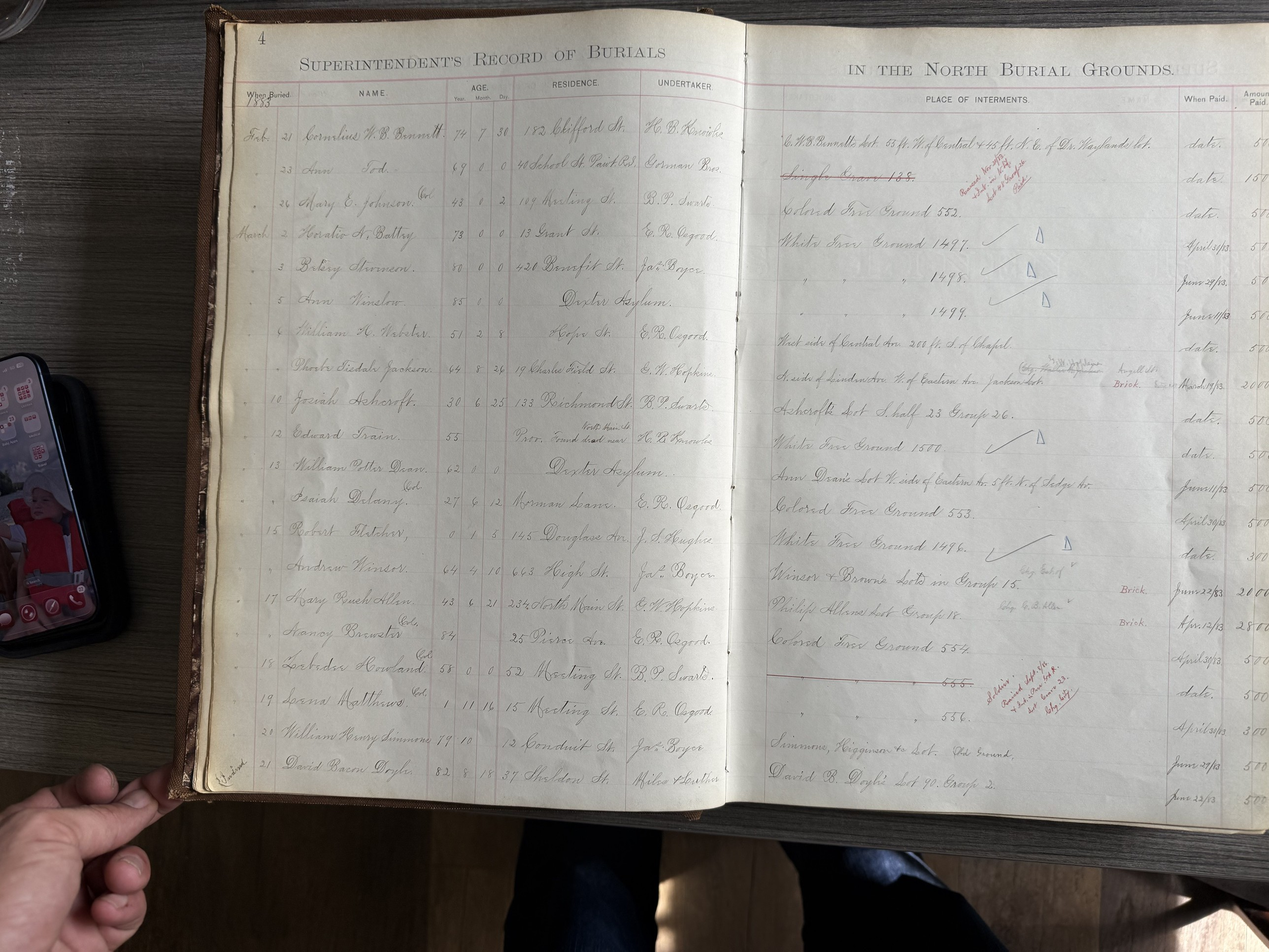
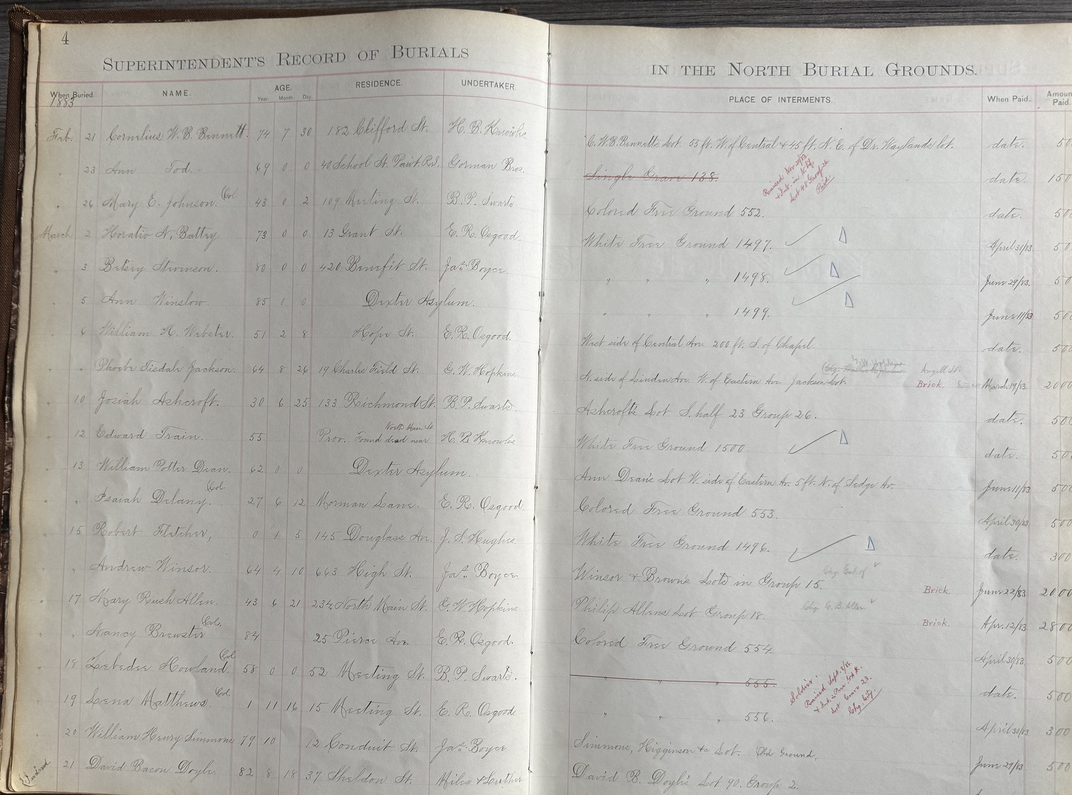
Main page: source images beside the text they support
- 1871 grant (Resolution 287), 1883 ledger detail with Howland's struck entry and reburial note, 1886 report and resolution, Howland's stone
- 1871 quotation now from the printed resolution (new source 9); source 8 links the standards page; row dates updated for rows E and N
- 1883 ledger photo re-cropped to remove a phone screen and hand; detail crop added
- 1886 page image renamed: its page number is clipped in our copy (330 or 336), flagged on both pages
- build hosts any records/ file a site page shows

Claude-Session: https://claude.ai/code/session_01R3XC3QwzsKztCNqHmFzJCY

diff --git a/prescott/build.py b/prescott/build.py
@@ -952,6 +952,11 @@ def main():
         (dest / "index.html").write_text(html_text, encoding="utf-8")
         hosted |= records
     # Photographs of stones not yet matched to a grid position are shown on the help page.
+    # Records that the site pages (site/*.md) show directly are hosted too.
+    for sp in (ROOT / "site").glob("*.md"):
+        for m in re.finditer(r"\.\./(records/[^)\s\]]+\.(?:jpe?g|png|pdf))", sp.read_text(encoding="utf-8")):
+            if (ROOT / m.group(1)).exists():
+                hosted.add(m.group(1))
     # ...and records that belong to site pages rather than stones live in records/_<name>/.
     for p in sorted((ROOT / "records").glob("_*/*")):
         if p.suffix.lower() in (".jpg", ".jpeg", ".png", ".pdf"):

diff --git a/prescott/site/plot.md b/prescott/site/plot.md
@@ -1,7 +1,7 @@
 ---
 title: "The Prescott Post lot"
 slug: /map/
-last_revised: "2026-10-30"
+last_revised: "2026-11-01"
 researchers: ["Bernard Brennan"]
 ---
 
@@ -13,11 +13,13 @@ You are standing in a burial lot of the Grand Army of the Republic, the organiza
 
 ## How the lot began
 
-In 1871 Prescott Post asked the City of Providence for a burial lot here. On December 21, 1871, the City Council granted it. The first condition was that the lot be deeded to Prescott Post "for the use of all the Posts of the G. A. R. in this city, as a burial place for the comrades of their several Posts." [3]
+In 1871 Prescott Post asked the City of Providence for a burial lot here. On December 21, 1871, the City Council granted it. The first condition was that the lot be deeded to Prescott Post "for the use of all the posts of the Grand Army of the Republic in this city as a burial place for the comrades of their several posts." [9]
 
-One of those posts was Ives Post No. 13, a post of Black veterans, chartered in 1868. [4] The grant does not mention race. It names every post, and Ives Post was one of them. [3][4]
+![The grant: Resolution No. 287 of the Providence City Council, approved December 21, 1871, as printed. [9]](../records/_monument/1871-resolution-287.jpg)
 
-The Post dedicated the monument on Decoration Day, Saturday, May 29, 1875. Its shaft is an old 32-pounder cannon, ten and a half feet long, that Congress voted to the Post. It stands on a base of Westerly granite. [3]
+One of those posts was Ives Post No. 13, a post of Black veterans, chartered in 1868. [4] The grant does not mention race. It names every post, and Ives Post was one of them. [9][4]
+
+The Post dedicated the monument on Decoration Day, Saturday, May 29, 1875. Its shaft is an old 32-pounder cannon, ten and a half feet long, that Congress voted to the Post. It stands on a base of Westerly granite. [3] The [monument page](../monument/index.html) has the Act of Congress and the rest of its story.
 
 ## Who is here
 
@@ -29,9 +31,15 @@ They lie in the same rows. A corporal of the 14th Rhode Island is next to a sail
 
 The City kept its own burial grounds differently. In 1883 its free burials, for those whose families could not pay, ran in two numbered series: a White Free Ground and a Colored Free Ground. [6]
 
+![The City's burial ledger, March 1883, place-of-interment column. Free burials are entered by series and grave number: "Colored Free Ground 553," "White Free Ground 1496," "Colored Free Ground 554." The struck line, ditto marks for "Colored Free Ground 555," is Zebedee Howland's; the red note beside it reads "Soldier. Raised Sept. 8/86 & Int. in Prov. G.A.R. Lot Grave 23. Chg. City." [See the whole page](../records/G3/1883-burial-ledger.jpg). Courtesy City of Providence, Department of Parks, North Burial Ground. [6]](../records/G3/1883-burial-ledger-detail.jpg)
+
 In 1885 the General Assembly passed a law: honorably discharged soldiers and sailors buried in pauper ground had to be moved out of it. [7] The City's committee on the North Burial Ground found this lot too small to take them. In June 1886 the City Council voted to enlarge it by annexing the Providence Police Association's lot, and to move the monument to the centre of the larger lot. [7]
 
-Zebedee Howland, sergeant major of the 14th Rhode Island, had died in March 1883. The City buried him in the Colored Free Ground. On September 8, 1886, ten weeks after the City authorized the enlargement, his body was raised and reburied here, at the City's charge. The clerk struck the old entry and wrote "Soldier" beside it. [6] His stone is at G3.
+![The joint committee's report (No. 272) and the Council's Resolution No. 273 of June 28, 1886, as printed: the enlargement of the lot and the moving of the monument. [7]](../records/_monument/1886-report-272-resolution-273.jpg)
+
+Zebedee Howland, sergeant major of the 14th Rhode Island, had died in March 1883. The City buried him in the Colored Free Ground. On September 8, 1886, ten weeks after the City authorized the enlargement, his body was raised and reburied here, at the City's charge. The clerk struck the old entry and wrote "Soldier" beside it. [6] His stone is at G3, and [his page](../stone/G3-howland/index.html) tells his story.
+
+![The stone of Zebedee Howland, G3: ZEBEDEE HOWLAND / Co. A. 14th R.I.H.Arty. / Died March 13, 1883. [Read his page →](../stone/G3-howland/index.html)](../records/G3/stone-2026-close.jpg)
 
 Howland's is the one case documented so far. The 1885 law makes it likely there were others, Black and white. The City's burial ledgers will show how many.
 
@@ -54,13 +62,14 @@ The lot is cared for by the City of Providence, Department of Parks, North Buria
 ## Sources
 
 1. Monument inscription, Prescott Post lot, North Burial Ground, Providence, R.I. Photograph by Bernard Brennan, 2026 (IMG_2584).
-2. Prescott Post Digital Companion, *Plot register* (register.csv), surveyed and photographed by Bernard Brennan, 2025–2026; stone-by-stone transcriptions and photo references are in the register. Dated stones in grid order: row A 1919–1928; row B 1915–1919; row C 1912–1915; row F 1902–1904; rows G–I 1876–1889; rows J–K 1894–1898; row M 1899–190?; front row (unsurveyed) 1932–1936.
-3. "The Laureled Dead: Annual Observance of Decoration … Dedication of the Prescott Post Monument," *Providence Morning Star*, May 31, 1875, 1, including the report of the Post's building committee, which quotes City Council Resolution No. 287, approved December 21, 1871. ⟨cite the resolution from the City's printed *Resolutions* for 1871 once located⟩
+2. Prescott Post Digital Companion, *Plot register* (register.csv), surveyed and photographed by Bernard Brennan, 2025–2026; stone-by-stone transcriptions and photo references are in the register. Dated stones in grid order: row A 1919–1928; row B 1915–1919; row C 1912–1915; row F 1902–1904; rows G–I 1876–1889; rows J–K 1894–1898; row E 1905–1909; row M 1899–190?; row N 1928–1937.
+3. "The Laureled Dead: Annual Observance of Decoration … Dedication of the Prescott Post Monument," *Providence Morning Star*, May 31, 1875, 1, including the report of the Post's building committee.
 4. Andrew Evans, "Black Memory of the Civil War in New England, 1865–1877" (PhD diss., Brandeis University, 2026), 125 n. 187, 159–60. ⟨replace or supplement with a primary source for the 1868 charter: Department of R.I. proceedings or Ives Post records⟩
 5. Jack Perry, "An Overdue Salute," *Providence Journal*, June 19, 2025, 1.
 6. City of Providence, North Burial Ground, *Superintendent's Record of Burials*, 1883, entry of 18 March 1883 (Zebedee Howland), with marginal annotation of 8 September 1886; same page, series headings "White Free Ground" and "Colored Free Ground." Photograph by Bernard Brennan, 2026 (IMG_2550), courtesy City of Providence, Department of Parks, North Burial Ground. ⟨volume and page: ask A. Heppner⟩
-7. City of Providence, ⟨title of printed volume⟩, 1886, No. 272, "Report of the Joint Committee on the North Burial Ground, relative to the Enlargement of the 'Prescott Post Lot,'" presented June 7, 1886, ⟨329⟩–330; No. 273, "Resolution Authorizing the Commissioners of the North Burial Ground to Enlarge the 'Prescott Post Lot,'" approved June 28, 1886, 330–⟨331⟩. ⟨Add the 1885 statute: R.I. *Acts and Resolves*, May Session 1885, chapter⟩
-8. Editorial standard of this site: see "About the research" ⟨page to be written⟩.
+7. City of Providence, ⟨title of printed volume⟩, 1886, No. 272, "Report of the Joint Committee on the North Burial Ground, relative to the Enlargement of the 'Prescott Post Lot,'" presented June 7, 1886, ⟨329⟩–330; No. 273, "Resolution Authorizing the Commissioners of the North Burial Ground to Enlarge the 'Prescott Post Lot,'" approved June 28, 1886, 330–⟨331⟩. ⟨page number is clipped in our copy of the page: 330 or 336; confirm⟩ ⟨Add the 1885 statute: R.I. *Acts and Resolves*, May Session 1885, chapter⟩
+8. The editorial standards of this site: see [Editorial standards](../standards/index.html).
+9. City of Providence, City Council, Resolution No. 287, "Resolution to set off a lot in the North Burying Ground for use of the Grand Army of the Republic," approved December 21, 1871; as printed in ⟨title of printed volume⟩.
 
 <!-- Editor's notes, not for publication:
      - "about three hundred": the register has 14 rows × up to 25 columns incl. a flagpole
@@ -85,6 +94,5 @@ The lot is cared for by the City of Providence, Department of Parks, North Buria
        Evans, 249 n. 69) are the place to test it. Re-read this paragraph against them.
      - The 1875 dedication line "The lot is designed especially for …" is lost in the fold
        of the scan. Read it from the original before release.
-     - The ledger paragraph depends on Annalisa approving publication of the Howland
-       ledger entry. Ask before release.
+     - Ledger image: A. Heppner approved publication of NBG record images, 1 Nov 2026.
 -->

diff --git a/prescott/site/monument.md b/prescott/site/monument.md
@@ -37,7 +37,7 @@ The newspaper measured the work. The monument stood eighteen feet high. The base
 
 The lot the Post was given in 1871 is not the lot you are standing in. In September 1885 the Mayor sent the Council a message about soldiers and sailors "buried in places used for the burial of paupers," because a statute passed by the General Assembly that May required that the bodies of honorably discharged soldiers and sailors in pauper ground be removed from it. The Council's joint committee on the North Burial Ground reported on June 7, 1886, that the Prescott Post lot — by then described as forty feet by sixty — was "none too large" for the men the city's Grand Army posts would themselves bury there. The committee recommended enlarging it by annexing the Providence Police Association's lot next to it, and giving the Police Association a lot nearer the French monument in exchange. Moving the monument "to the centre of said lot when enlarged," with grading and turfing, was estimated at four hundred and sixty dollars. [5]
 
-![The joint committee's report of June 7, 1886 (No. 272), and Resolution No. 273 of June 28, 1886, as printed, p. 336. [5] [6]](../records/_monument/1886-resolutions-272-273-p336.jpg)
+![The joint committee's report of June 7, 1886 (No. 272), and Resolution No. 273 of June 28, 1886, as printed. [5] [6]](../records/_monument/1886-report-272-resolution-273.jpg)
 
 On June 28, 1886, by Resolution No. 273, the Council authorized the Commissioners of the North Burial Ground to enlarge the lot according to the city engineer's plans, including the exchange with the Police Association, at a cost of not more than five hundred dollars. [6] The monument was moved to the centre of the enlarged lot, where it stands now, and the men taken up from the pauper grounds that year were buried in the rows around it. How that reshaped the lot is told on the [plot page](../map/index.html).
 
@@ -63,7 +63,7 @@ The images above, in order:
 - [Monument inscription, 2026](../records/_monument/monument-inscription-2026.jpg) — the cut face of the base, photographed 2026. [1]
 - [Resolution No. 287, December 21, 1871](../records/_monument/1871-resolution-287.jpg) — setting off a lot in the North Burying Ground for the Grand Army of the Republic. [3]
 - [Public Act No. 127, June 10, 1874](../records/_monument/1874-act-public-127.jpg) — the Act of Congress granting one condemned cannon to Prescott Post. [4]
-- [Report No. 272 (head), June 7, 1886](../records/_monument/1886-resolution-272-head.jpg) and [Report No. 272 and Resolution No. 273, p. 336](../records/_monument/1886-resolutions-272-273-p336.jpg) — the enlargement of the lot and the moving of the monument. [5] [6]
+- [Report No. 272 (head), June 7, 1886](../records/_monument/1886-resolution-272-head.jpg) and [Report No. 272 and Resolution No. 273](../records/_monument/1886-report-272-resolution-273.jpg) — the enlargement of the lot and the moving of the monument. [5] [6]
 
 The two newspaper reports are cited below and linked where a public copy exists; their images are not hosted here.
 
@@ -71,9 +71,9 @@ The two newspaper reports are cited below and linked where a public copy exists;
 
 1. Monument inscription, Prescott Post lot, North Burial Ground, Providence, R.I. Photograph by Bernard Brennan, 2026 (IMG_2584).
 2. "The Laureled Dead: Annual Observance of Decoration … At North Burial Ground," *Providence Morning Star*, May 31, 1875, p. 1, including the "Report of the Building Committee" read by Major E. C. Pomroy. ⟨BB: confirm title, page and column from the clipping's source, and whether a public copy exists to link⟩
-3. City of Providence, City Council, Resolution No. 287, "Resolution to set off a lot in the North Burying Ground for use of the Grand Army of the Republic," approved December 21, 1871; as printed in the compiled record of town and city acts relating to the North Burial Ground. ⟨BB: title, publisher and date of the compiled volume from which pp. 8 and 336 are taken⟩
+3. City of Providence, City Council, Resolution No. 287, "Resolution to set off a lot in the North Burying Ground for use of the Grand Army of the Republic," approved December 21, 1871; as printed in the compiled record of town and city acts relating to the North Burial Ground. ⟨BB: title, publisher and date of the compiled volume from which these pages are taken⟩
 4. An Act granting one condemned cannon to Prescott Post No. one Grand Army of the Republic for the erection of a monument at Providence, Public No. 127, approved June 10, 1874, 43rd Congress, 1st Session; *Statutes at Large* ⟨volume 18, page to be confirmed⟩.
-5. City of Providence, City Council, "Report of the Joint Committee on the North Burial Ground, relative to the Enlargement of the 'Prescott Post Lot,'" Albert G. Carpenter, chairman, presented June 7, 1886; *Resolutions of the City Council* No. 272, 1886; as printed in the compiled volume cited in note 3, p. 336.
-6. City of Providence, City Council, Resolution No. 273, "Resolution Authorizing the Commissioners of the North Burial Ground to Enlarge the 'Prescott Post Lot,'" approved June 28, 1886; as printed in the compiled volume cited in note 3, p. 336.
+5. City of Providence, City Council, "Report of the Joint Committee on the North Burial Ground, relative to the Enlargement of the 'Prescott Post Lot,'" Albert G. Carpenter, chairman, presented June 7, 1886; *Resolutions of the City Council* No. 272, 1886; as printed in the compiled volume cited in note 3, p. 330. ⟨page number is clipped in our copy: 330 or 336; confirm⟩
+6. City of Providence, City Council, Resolution No. 273, "Resolution Authorizing the Commissioners of the North Burial Ground to Enlarge the 'Prescott Post Lot,'" approved June 28, 1886; as printed in the compiled volume cited in note 3, p. 330.
 7. Untitled report of City Council proceedings, resolution introduced by Alderman Reynolds appropriating $1,050 for the removal of headstones on the Prescott Post lot and the setting of markers; newspaper clipping in the project files. ⟨BB: newspaper, date and page⟩
 8. Rhode Island General Assembly, act of the May session, 1885, requiring the removal of honorably discharged soldiers and sailors from pauper burial ground; as described in note 5. ⟨Add the statute citation from *Acts and Resolves*, May 1885⟩
